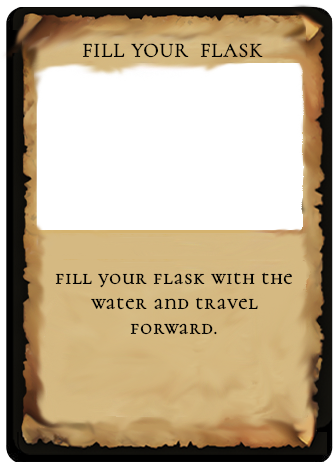
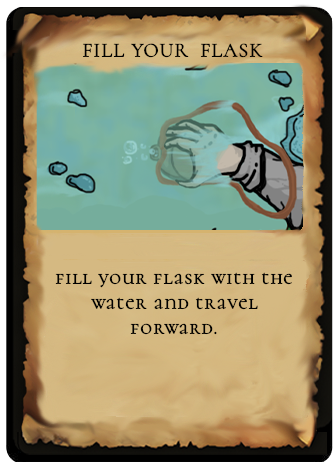
added text to cards in css

Changed region(s): [[0.0901, 0.1212, 0.9309, 0.5152]]

diff --git a/style.css b/style.css
@@ -597,15 +597,15 @@ span::after {
     background-size: 99%;
     background-repeat: no-repeat;
 }
-/*TODO: fix this!*/
+
 #go_tocity{
-    background-image: url("./assets/forest_leave_card.png");
+    background-image: url("./assets/go_to_town_card.png");
     background-size: 99%;
     background-repeat: no-repeat;
 }
-/*TODO: FIX THIS*/
+
 #no_money_for_armor{
-    background-image: url("./assets/town_leave_card.png");
+    background-image: url("./assets/town_no_money_card.png");
     background-size: 99%;
     background-repeat: no-repeat;
 }
@@ -621,9 +621,9 @@ span::after {
     background-size: 99%;
     background-repeat: no-repeat;
 }
-/*TODO: FIX THIS!*/
+
 #dragon_run{
-    background-image: url("./assets/dragon_attack_fail_card.png");
+    background-image: url("./assets/dragon_run_card.png");
     background-size: 99%;
     background-repeat: no-repeat;
 }
@@ -657,9 +657,9 @@ span::after {
     background-size: 99%;
     background-repeat: no-repeat;
 }
-/*TODO: FIX THIS!*/
+
 #ignore_merchant{
-    background-image: url("./assets/merchant_keep_card.png");
+    background-image: url("./assets/ignore_merchant_card.png");
     background-size: 99%;
     background-repeat: no-repeat;
 }
@@ -675,15 +675,15 @@ span::after {
     background-size: 99%;
     background-repeat: no-repeat;
 }
-/*TODO: FIX THIS*/
+
 #go_to_city_after_returing_to_merchant{
-    background-image: url("./assets/town_steal_card.png");
+    background-image: url("./assets/go_to_town_card.png");
     background-size: 99%;
     background-repeat: no-repeat;
 }
-/*TODO: FIX THIS*/
+
 #city_after_lizard_men{
-    background-image: url("./assets/forest_card.png");
+    background-image: url("./assets/escape_townsfolk_card.png");
     background-size: 99%;
     background-repeat: no-repeat;
 }
@@ -699,7 +699,7 @@ span::after {
     background-size: 99%;
     background-repeat: no-repeat;
 }
-/*TODO: FIX THIS*/
+
 #ignore_shop{
     background-image: url("./assets/town_leave_card.png");
     background-size: 99%;

diff --git a/script.js b/script.js
@@ -232,6 +232,7 @@ let state25 = {
         flavortextshowhide();
         setTimeout(flavortextshowhide, 6000);
         $('#flavor_text').css("background-image", "url(./assets/Town-jail.png)");
+        setTimeout(youhavedied, 6000);
     }
 };
 //TODO: fix the cordinates
